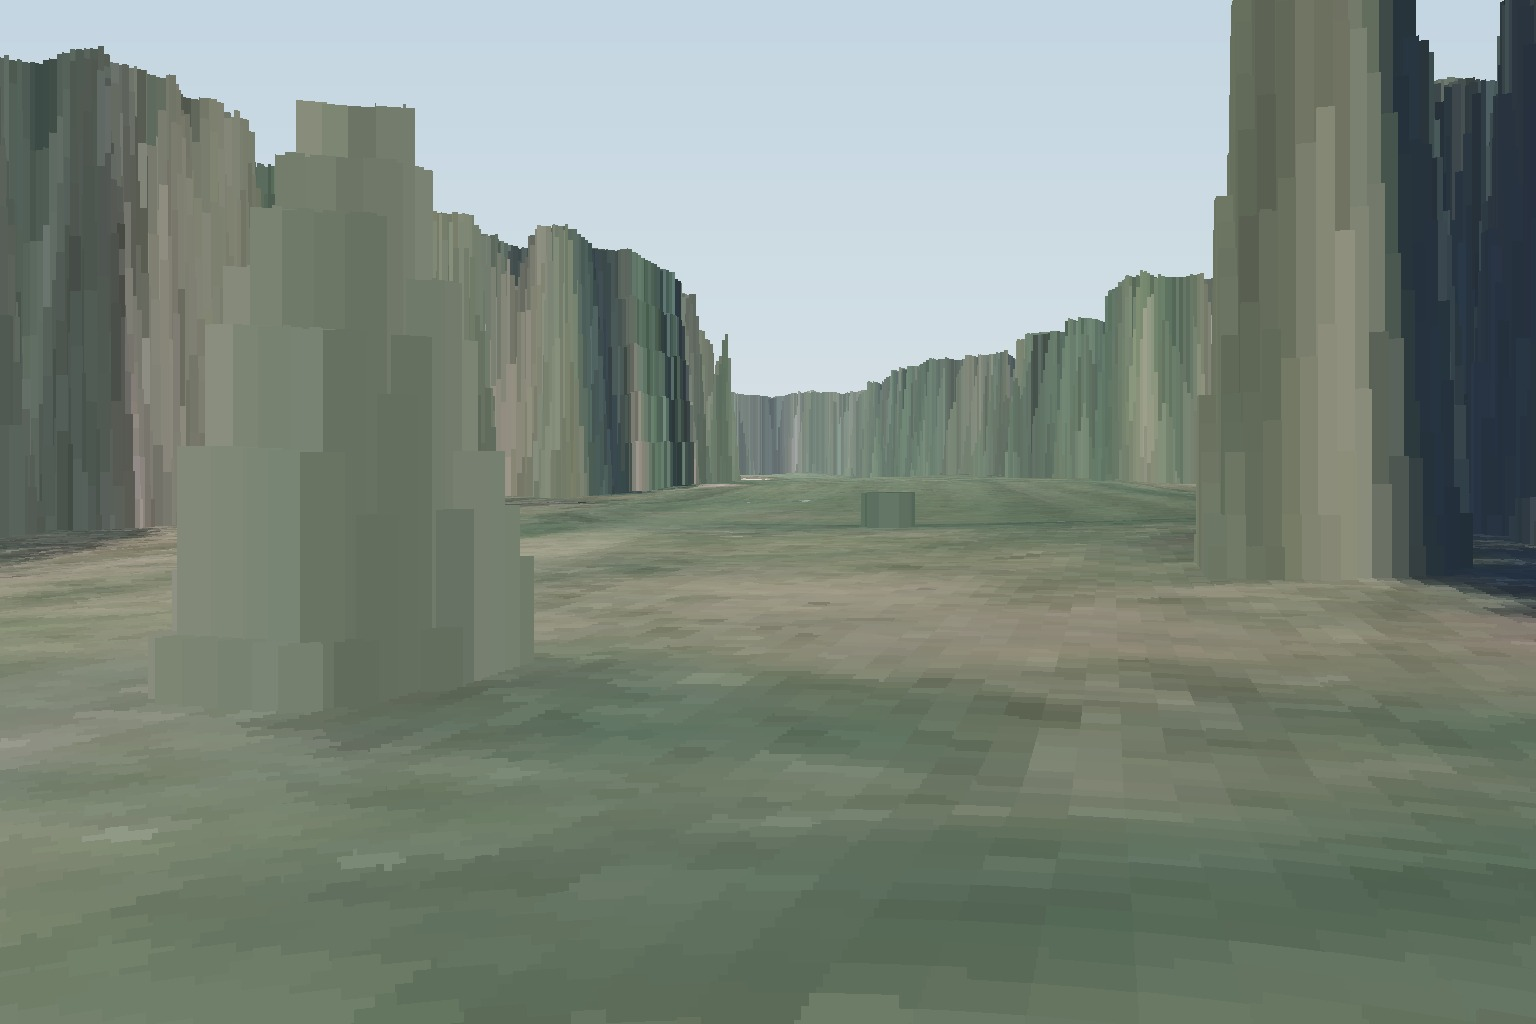
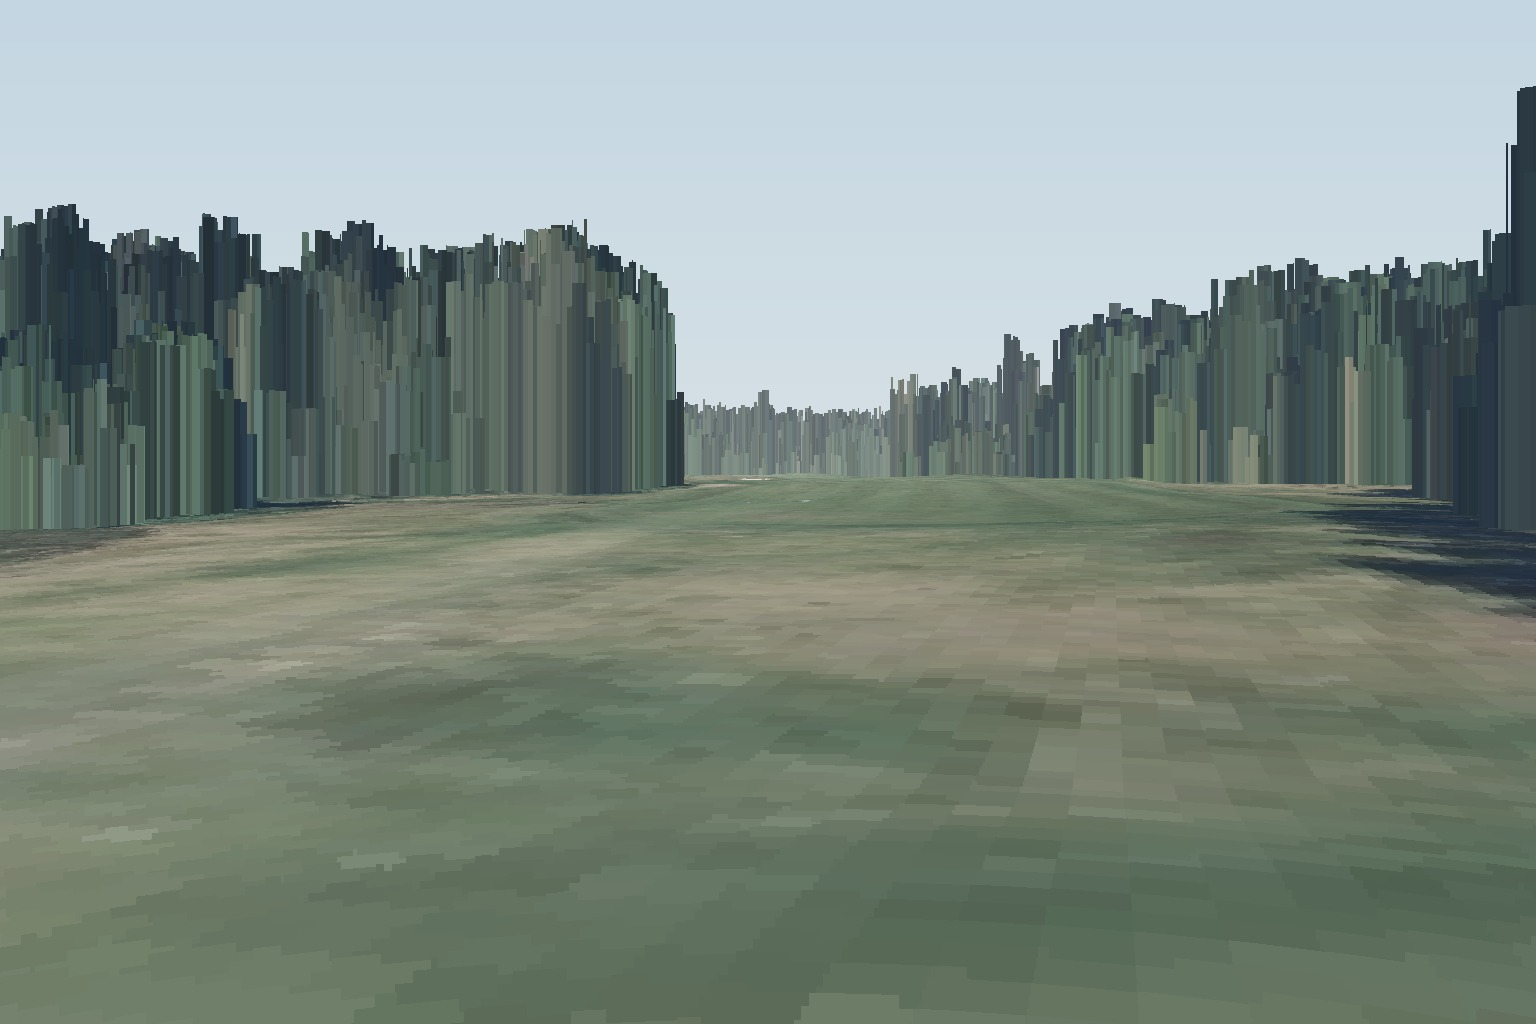
3D-vy: riktiga träd ur Lantmäteriets Laserdata Skog
Claude-Session: https://claude.ai/code/session_01KqG1GUsb2FjWm4iUZSnPua

Changed region(s): [[0.0, 0.0, 1.0, 0.6875]]

diff --git a/golfholes/laser.py b/golfholes/laser.py
@@ -1,0 +1,55 @@
+"""Lantmäteriets Laserdata Skog (punktmoln, COPC/LAZ) → trädhöjd per ruta.
+
+Markhöjdmodellen saknar träd. Laserpunkterna har dem: varje träds topp, form och
+glipor finns med, så 3D-vyn kan visa de riktiga träden i stället för en gissad skog.
+Kräver laspy + lazrs (läses bara här, resten av koden klarar sig utan).
+"""
+from __future__ import annotations
+
+from pathlib import Path
+
+import numpy as np
+
+STAC = "https://api.lantmateriet.se/stac-hojd/v1/collections/dsm-skoglig-copc/items"
+BRUS = {7, 18}  # LAS-klass för brus (låg/hög) – skippas
+
+
+def ytor(laz: str | Path, bbox: tuple[float, float, float, float], res: float = 0.5):
+    """Högsta punkten per ruta (ytmodell) inom bbox. Returnerar (yta, e0, n0, res);
+    rutor utan punkter blir NaN."""
+    import laspy
+
+    e_min, n_min, e_max, n_max = bbox
+    w, h = int(np.ceil((e_max - e_min) / res)), int(np.ceil((n_max - n_min) / res))
+    yta = np.full(h * w, -np.inf, np.float32)
+    with laspy.open(laz) as f:
+        for bit in f.chunk_iterator(2_000_000):
+            x, y, z = np.asarray(bit.x), np.asarray(bit.y), np.asarray(bit.z, np.float32)
+            k = (x >= e_min) & (x < e_max) & (y > n_min) & (y <= n_max)
+            k &= ~np.isin(np.asarray(bit.classification), list(BRUS))
+            if not k.any():
+                continue
+            cx = ((x[k] - e_min) / res).astype(int)
+            cy = ((n_max - y[k]) / res).astype(int)
+            np.maximum.at(yta, np.clip(cy, 0, h - 1) * w + np.clip(cx, 0, w - 1), z[k])
+    yta = yta.reshape(h, w)
+    yta[np.isinf(yta)] = np.nan
+    return yta, e_min, n_max, res
+
+
+def tradhojd(laz: str | Path, mark: np.ndarray, bbox, res: float = 0.5, min_m: float = 2.0) -> np.ndarray:
+    """Trädhöjd över mark (m) på samma rutnät som `mark`. Under min_m räknas som mark
+    (gräs, buskar, flaggstänger)."""
+    yta = ytor(laz, bbox, res)[0]
+    yta = np.pad(yta, ((0, max(0, mark.shape[0] - yta.shape[0])), (0, max(0, mark.shape[1] - yta.shape[1]))),
+                 constant_values=np.nan)[: mark.shape[0], : mark.shape[1]]
+    # tomma rutor (glest moln) fylls med grannens värde så kronorna blir hela
+    for _ in range(2):
+        tom = np.isnan(yta)
+        if not tom.any():
+            break
+        p = np.pad(yta, 1, constant_values=np.nan)
+        gr = np.nanmax(np.stack([p[:-2, 1:-1], p[2:, 1:-1], p[1:-1, :-2], p[1:-1, 2:]]), axis=0)
+        yta[tom] = gr[tom]
+    h = np.nan_to_num(yta - mark, nan=0.0)
+    return np.where(h >= min_m, h, 0.0).astype(np.float32)

diff --git a/golfholes/render/perspektiv.py b/golfholes/render/perspektiv.py
@@ -39,10 +39,13 @@ def _hojd_pa(dem: np.ndarray, d0: tuple[float, float, float], E: np.ndarray, N: 
 def perspektiv(orto: Path, dem_fil: Path, kamera: tuple[float, float], mot: tuple[float, float],
                hojd_m: float = 1.6, bredd: int = 1536, hojd_px: int = 1024, fov_grader: float = 60.0,
                sikt_m: float = 420.0, ut: Path | None = None, fria: list | None = None,
-               linjer: list | None = None, korridor_m: float = 24.0, fri_runt_kamera_m: float = 10.0) -> Image.Image:
+               linjer: list | None = None, korridor_m: float = 24.0, fri_runt_kamera_m: float = 10.0,
+               laz: Path | None = None) -> Image.Image:
     """fria: spelytor (polygoner) där inga träd står. linjer: hålens spellinjer – ett band
     korridor_m brett längs dem hålls öppet, som i hålbilderna (hålet är öppet från tee).
-    Kameran står alltid på öppen mark (tee eller fairway)."""
+    Kameran står alltid på öppen mark (tee eller fairway).
+    laz: Laserdata Skog. Då används de riktiga träden (höjd och form ur laserpunkterna)
+    och ingen skog gissas eller tas bort."""
     ce, cn = kamera
     bbox = (ce - sikt_m, cn - sikt_m, ce + sikt_m, cn + sikt_m)
     a, e0, n0, res = read_window(orto, bbox)
@@ -71,9 +74,14 @@ def perspektiv(orto: Path, dem_fil: Path, kamera: tuple[float, float], mot: tupl
     E = e0 + (xx + 0.5) * r
     N = n0 - (yy + 0.5) * r
     mark = _hojd_pa(dem, (de0, dn0, dr), E, N)
-    kron = medel(skog.astype(np.float32), 3)
-    ojamn = medel(mt["V"], 2) / 255.0  # ljusa kronor sticker upp lite
-    H = mark + TRADHOJD_M * np.clip(kron * 1.4 - 0.2, 0, 1) * (0.85 + 0.3 * ojamn)
+    if laz:
+        from ..laser import tradhojd
+        bb = (e0, n0 - rgb.shape[0] * r, e0 + rgb.shape[1] * r, n0)
+        H = mark + tradhojd(laz, mark, bb, res=r)[: rgb.shape[0], : rgb.shape[1]]
+    else:
+        kron = medel(skog.astype(np.float32), 3)
+        ojamn = medel(mt["V"], 2) / 255.0  # ljusa kronor sticker upp lite
+        H = mark + TRADHOJD_M * np.clip(kron * 1.4 - 0.2, 0, 1) * (0.85 + 0.3 * ojamn)
 
     kz = _hojd_pa(dem, (de0, dn0, dr), np.array([ce]), np.array([cn]))[0] + hojd_m
     phi = math.atan2(mot[1] - cn, mot[0] - ce)

diff --git a/tmp-ai/rendera.py b/tmp-ai/rendera.py
@@ -18,4 +18,4 @@ vyer={
 }
 for n in (sys.argv[1:] or vyer):
     k,m,h=vyer[n]
-    perspektiv(O,D,k,m,hojd_m=h,ut=Path(f'tmp-ai/{n}-3d.jpg'),fria=fria,linjer=linjer); print(n)
+    perspektiv(O,D,k,m,hojd_m=h,ut=Path(f'tmp-ai/{n}-3d.jpg'),fria=fria,linjer=linjer,laz=Path('data/glasriket/laser/y26a023-63050_4900_25.copc.laz')); print(n)
